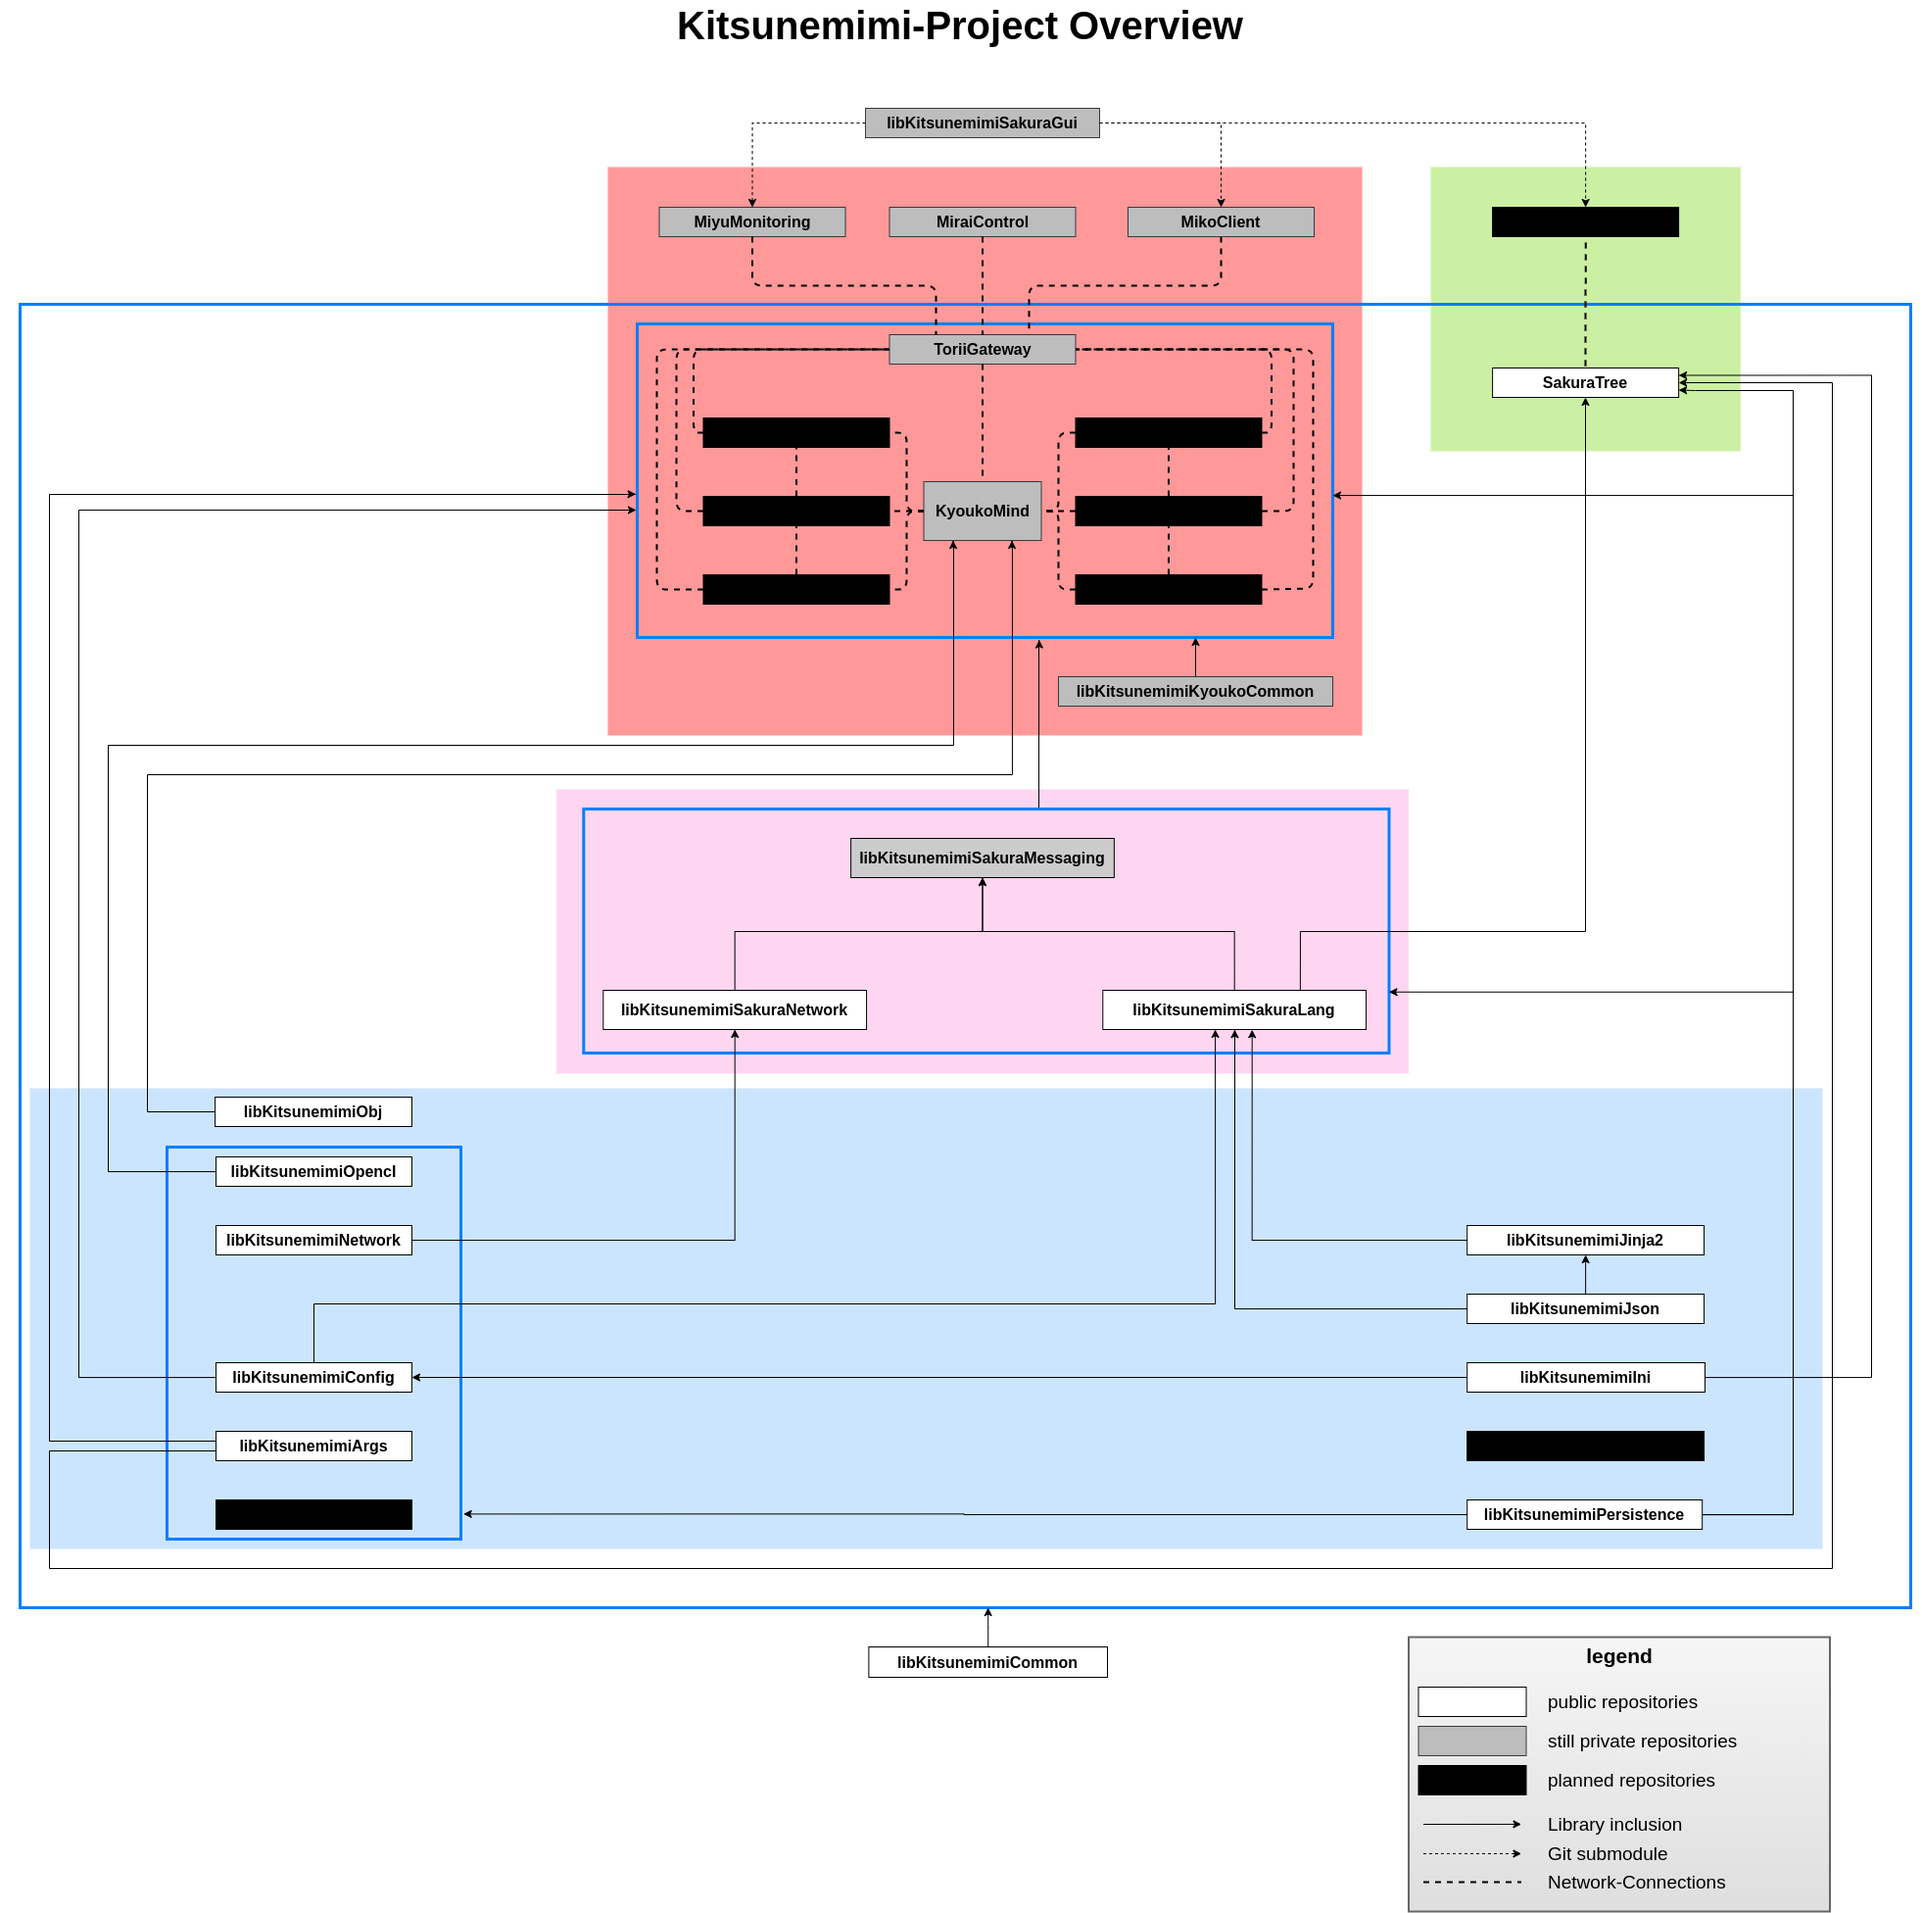
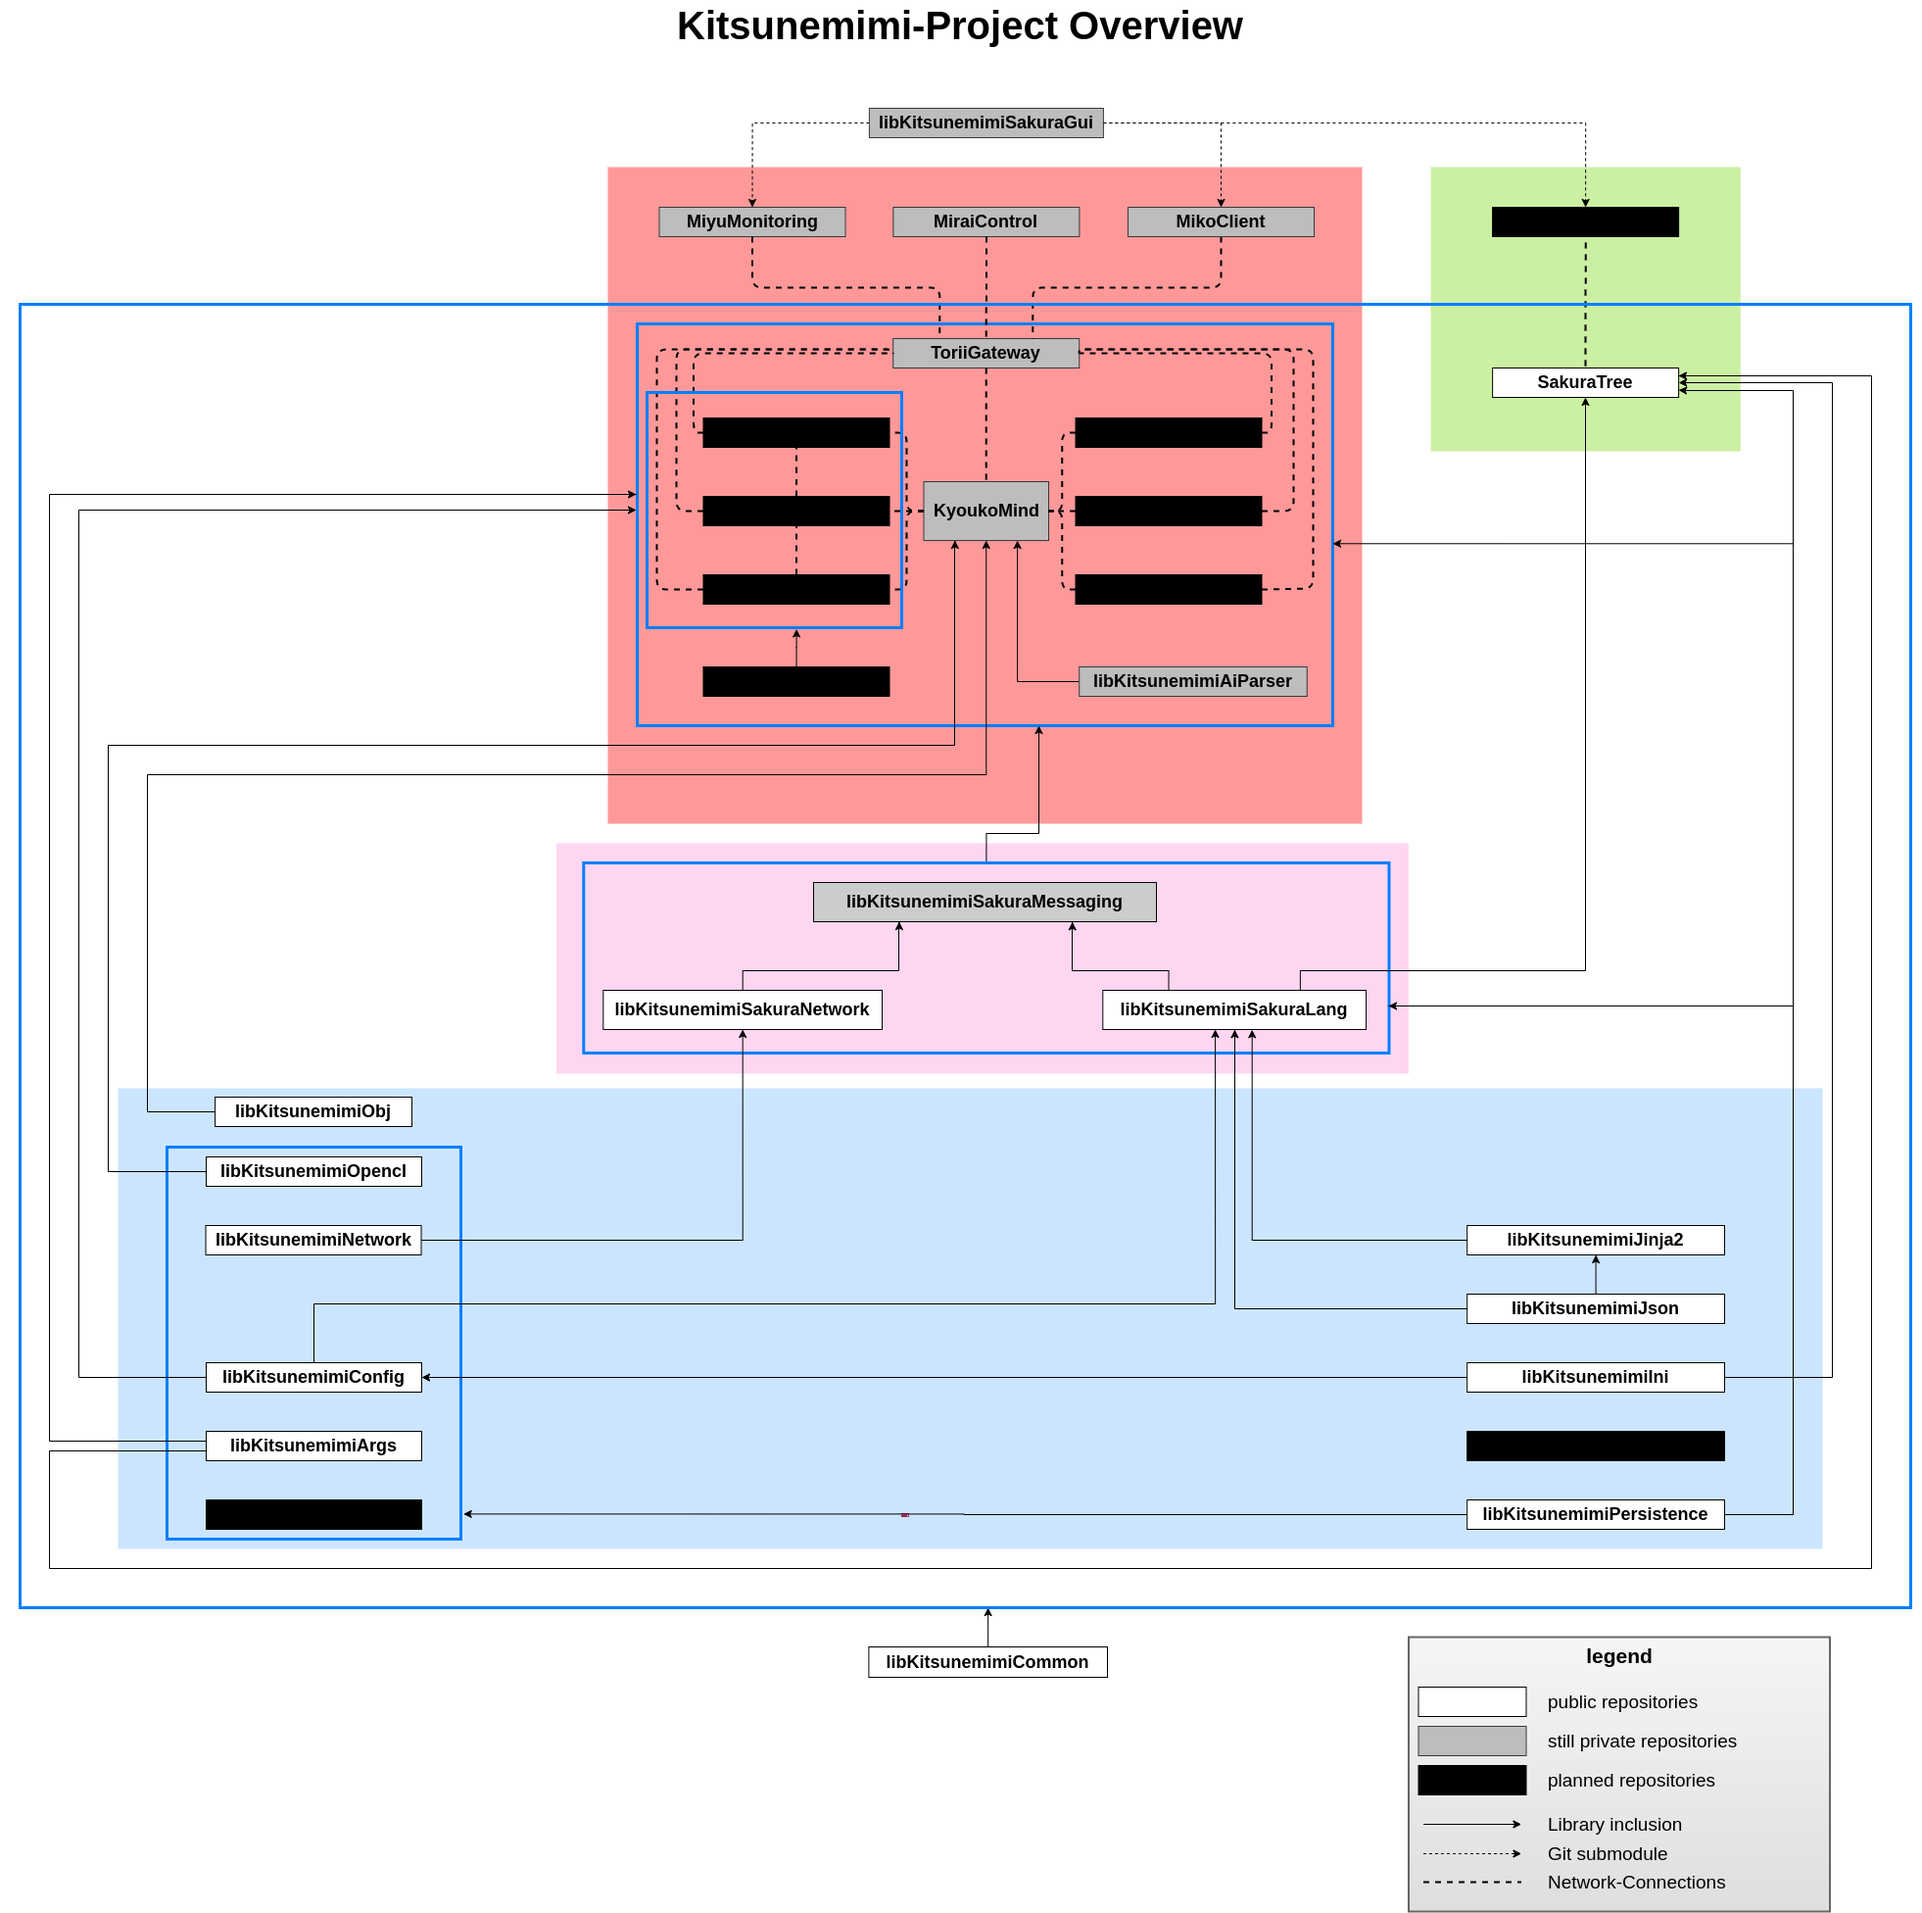
sync and update overview

diff --git a/README.md b/README.md
@@ -34,6 +34,8 @@ This is the main-project here, but it is still far away to be usable for any tas
 
 [MiraiControl](#MiraiControl)
 
+[libKitsunemimiAiParser](#libKitsunemimiAiParser)
+
 ### generic project libraries
 
 Libraries for common usage inside of the Kitsunemimi-Project. 
@@ -708,8 +710,9 @@ libKitsunemimiSakuraLang | v0.7.1 | https://github.com/kitsudaiki/libKitsunemimi
 libKitsunemimiNetwork | v0.6.5 | https://github.com/kitsudaiki/libKitsunemimiNetwork.git
 libKitsunemimiSakuraNetwork | v0.5.0 | https://github.com/kitsudaiki/libKitsunemimiSakuraNetwork.git
 libKitsunemimiObj | v0.1.1| https://github.com/kitsudaiki/libKitsunemimiObj.git
-libKitsunemimiOpencl | v0.1.0| https://github.com/kitsudaiki/libKitsunemimiOpencl.git
+libKitsunemimiOpencl | v0.2.0| https://github.com/kitsudaiki/libKitsunemimiOpencl.git
 libKitsunemimiSakuraMessaging | v0.4.0 | -
+libKitsunemimiAiParser | v0.1.0 | -
 
 ## ToriiGateway
 
@@ -758,6 +761,36 @@ libKitsunemimiSakuraLang | v0.7.1 | https://github.com/kitsudaiki/libKitsunemimi
 libKitsunemimiNetwork | v0.6.5 | https://github.com/kitsudaiki/libKitsunemimiNetwork.git
 libKitsunemimiSakuraNetwork | v0.5.0 | https://github.com/kitsudaiki/libKitsunemimiSakuraNetwork.git
 libKitsunemimiSakuraMessaging | v0.4.0 | -
+
+## libKitsunemimiAiParser
+
+#### Metadata
+
+- **content**: Parser-library for the input-files of KyoukoMind.
+
+- **current version**: `0.1.0`
+
+- **language**: `C++14`
+
+- **visibility**: `private`
+
+- **location**: `self-hosted Gitlab`
+
+#### Required build tools
+
+name | repository | version | task
+--- | --- | --- | ---
+g++ | g++ | >= 6.0 | Compiler for the C++ code.
+make | make | >= 4.0 | process the make-file, which is created by qmake to build the programm with g++
+qmake | qt5-qmake | >= 5.0 | This package provides the tool qmake, which is similar to cmake and create the make-file for compilation.
+FLEX | flex | >= 2.6 | Build the lexer-code for all used parser.
+GNU Bison | bison | >= 3.0 | Build the parser-code together with the lexer-code.
+
+#### Required kitsunemimi libraries
+
+Repository-Name | Version-Tag | Download-Path
+--- | --- | ---
+libKitsunemimiCommon | v0.16.1 |  https://github.com/kitsudaiki/libKitsunemimiCommon.git
 
 
 ## MiyuMonitoring
